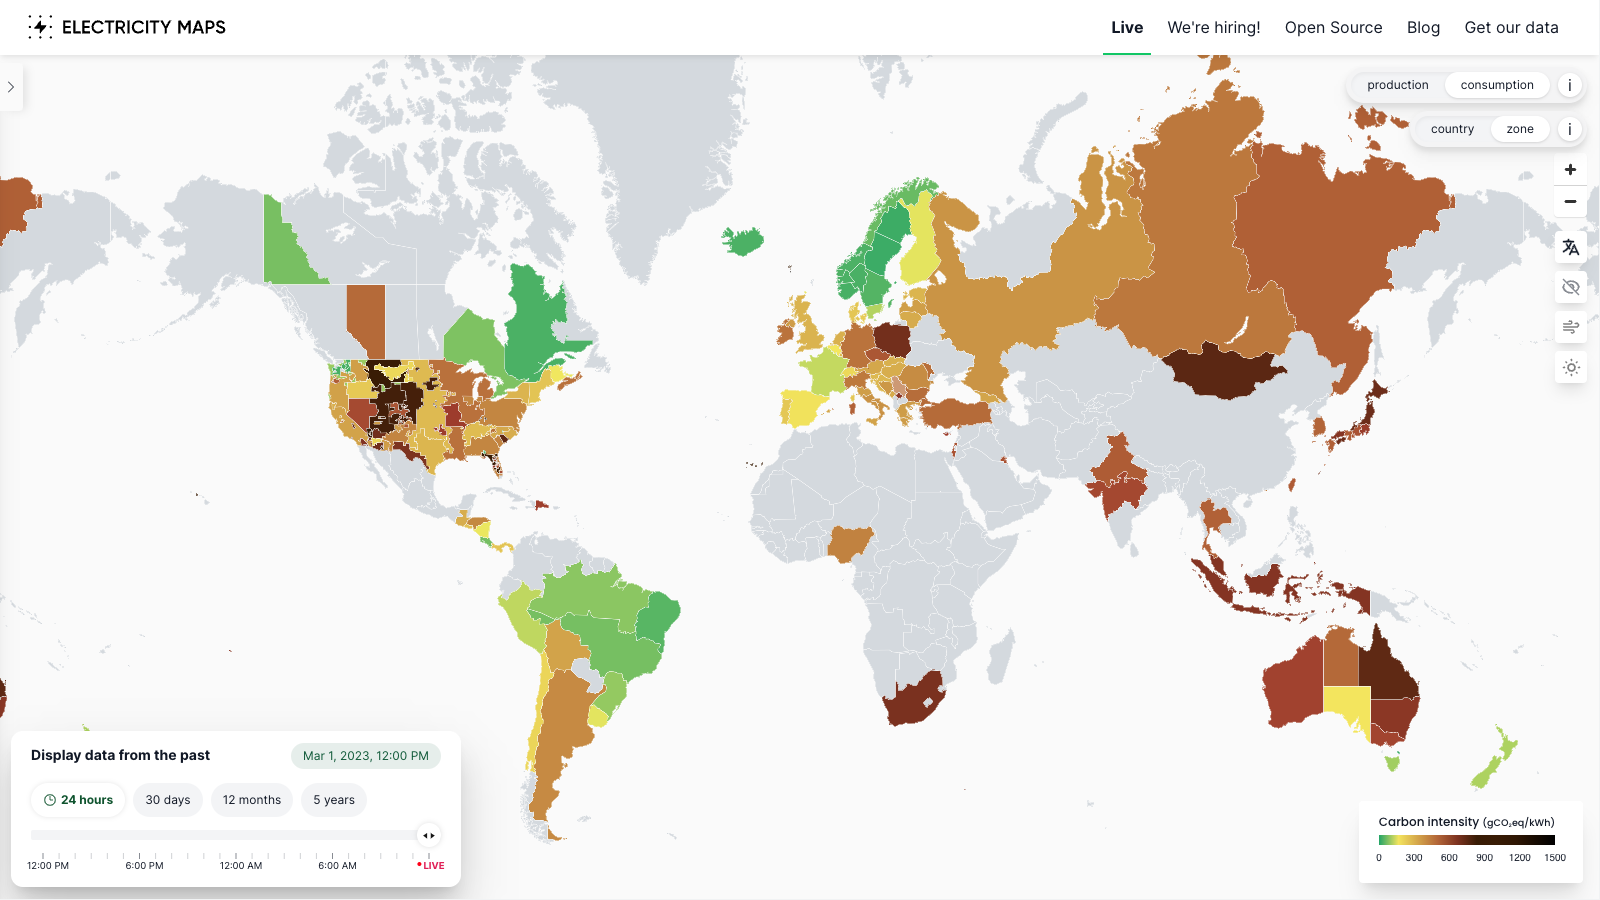
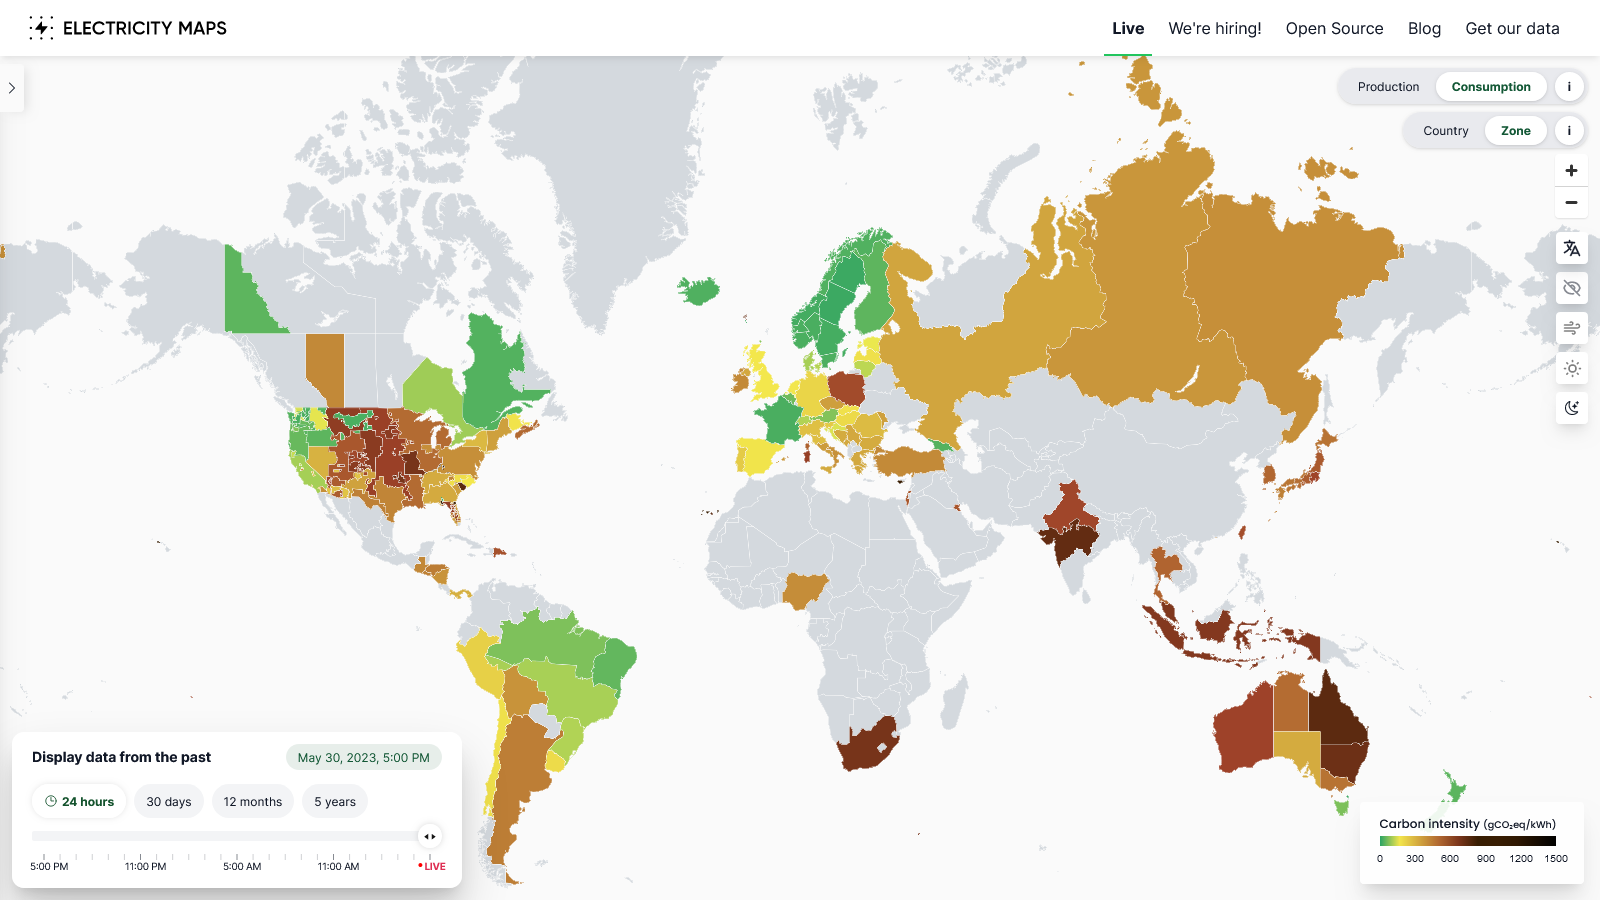
💚 update readme screenshot and provide dark version

diff --git a/README.md b/README.md
@@ -26,7 +26,8 @@ A real time and historical visualisation of the Greenhouse Gas Intensity (in ter
     ></a>
 </p>
 
-![image](https://raw.githubusercontent.com/electricitymaps/electricitymaps-contrib/master/web/public/images/electricitymap_social_image.png)
+![image](web/public/images/electricitymap_social_image.png#gh-light-mode-only)
+![image](web/public/images/electricitymap_social_image_dark.png#gh-dark-mode-only)
 
 ## Introduction
 
